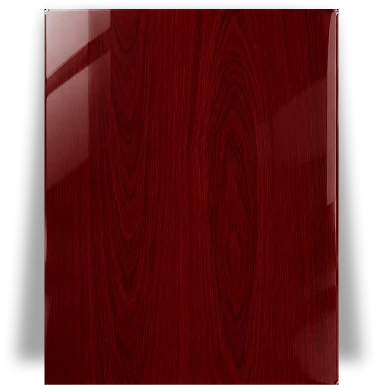
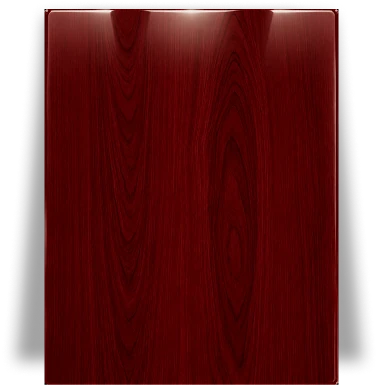
Update Acrylic and PU paint door images (lit and unlit)

diff --git a/index.html b/index.html
@@ -10,7 +10,7 @@
   <link href="https://fonts.googleapis.com/css2?family=Plus+Jakarta+Sans:wght@200..800&family=Newsreader:ital,opsz,wght@0,6..72,300..500;1,6..72,300..500&family=Manrope:wght@200..800&family=Public+Sans:wght@600&family=Cormorant+Garamond:wght@600&family=Playfair+Display:wght@700&family=Inter:wght@400;500;600&family=Archivo:wght@800&family=IBM+Plex+Mono:wght@600&display=swap" rel="stylesheet">
   <script>(function(d){var e=d.documentElement;e.className+=' js';setTimeout(function(){if(!window.__hw5)e.classList.add('motion-off')},2600)})(document)</script>
   <link rel="icon" href="favicon.ico" sizes="any"><link rel="icon" type="image/png" href="assets/favicon-64.png"><link rel="apple-touch-icon" href="apple-touch-icon.png">
-  <link rel="stylesheet" href="assets/home5.css?v=r12">
+  <link rel="stylesheet" href="assets/home5.css?v=r13">
 </head>
 <body>
 
